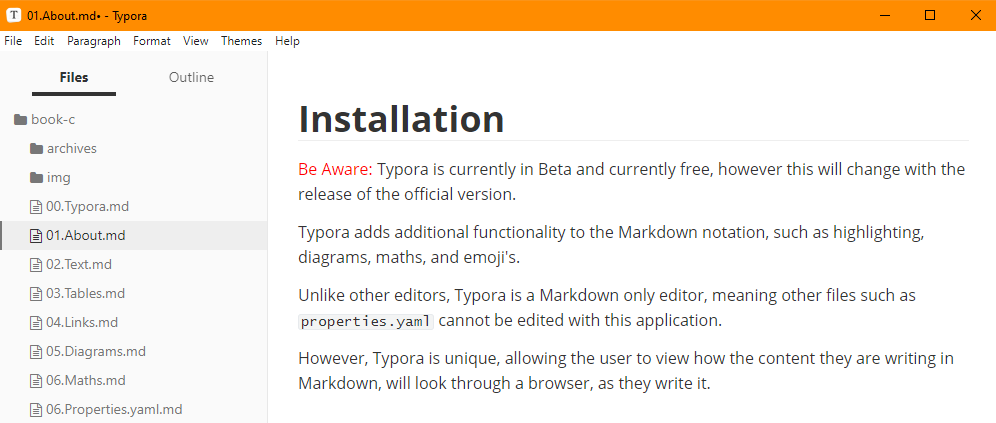
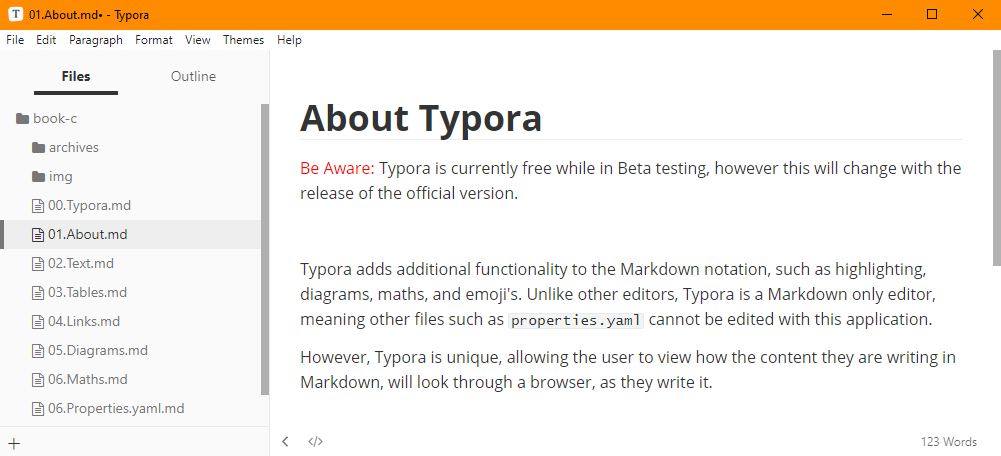
about page

diff --git a/topic-05-hidden/book-c/01.About.md b/topic-05-hidden/book-c/01.About.md
@@ -6,7 +6,7 @@
 
 Typora adds additional functionality to the Markdown notation, such as highlighting, diagrams, maths, and emoji's. Unlike other editors, Typora is a Markdown only editor, meaning other files such as `properties.yaml` cannot be edited with this application.
 
-However, Typora is unique, allowing the user to view how the content they are writing in Markdown, will look through a browser, as they write it.   
+However, Typora is unique, allowing the user to view how the content they are writing in Markdown will look through a browser, as they write it. This completely eliminates the time usually required for testing page formatting. 
 
   ![](img/typor.png)
 
@@ -15,4 +15,6 @@ However, Typora is unique, allowing the user to view how the content they are wr
 To view the code which is in effect, just click the area which has been formatted. For example: `Be Aware` is red, click it to see the `<span>` tag which is in effect.
 
   ![](img/spanexam.png)
+
+
 
